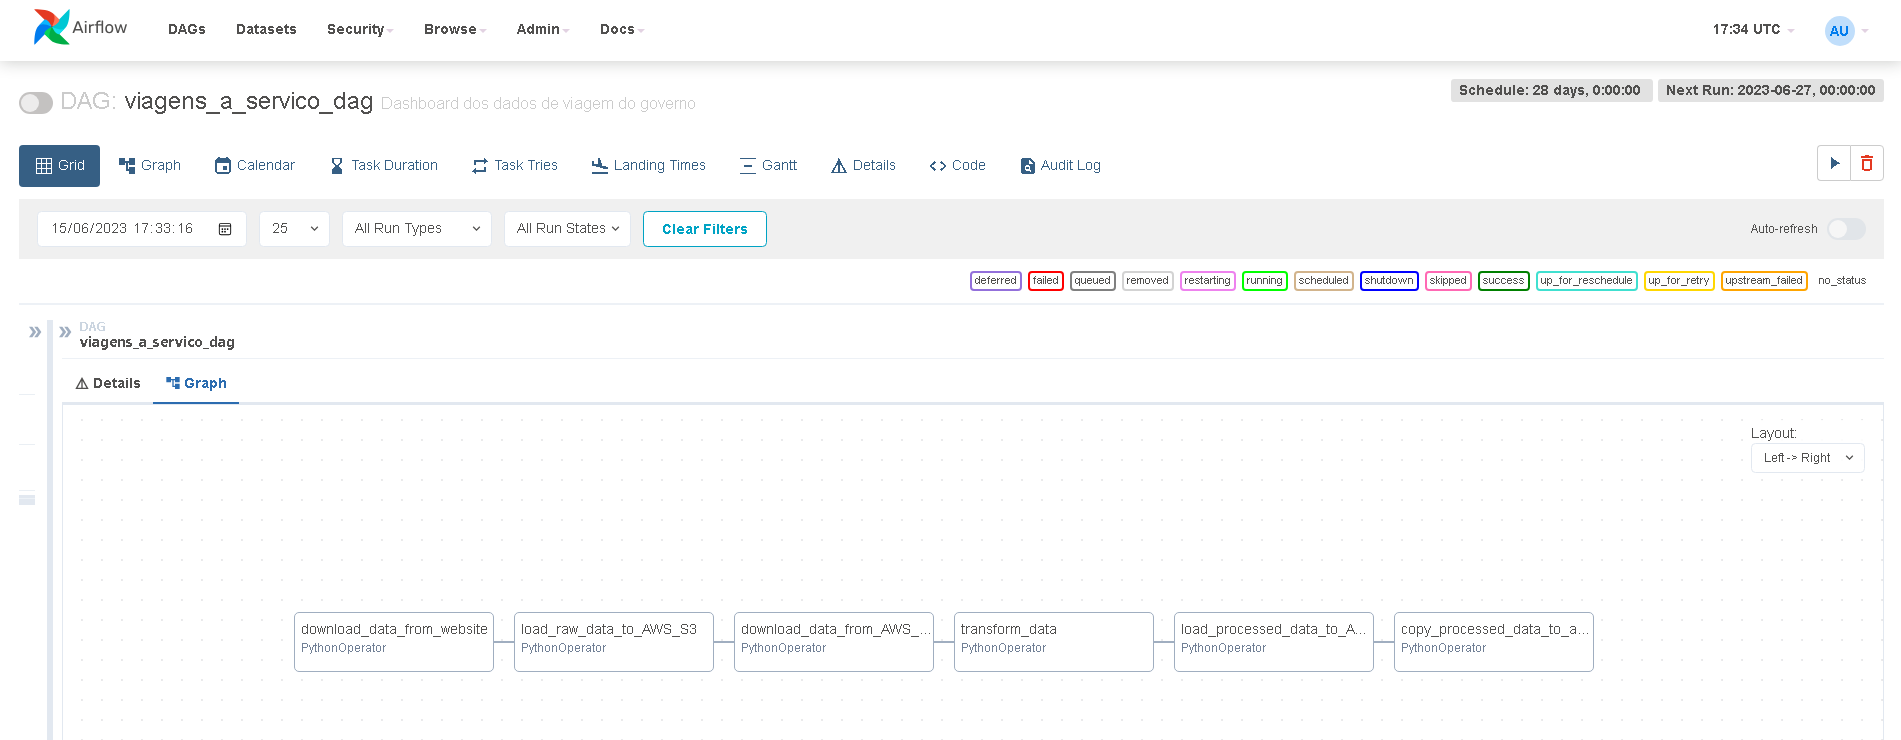
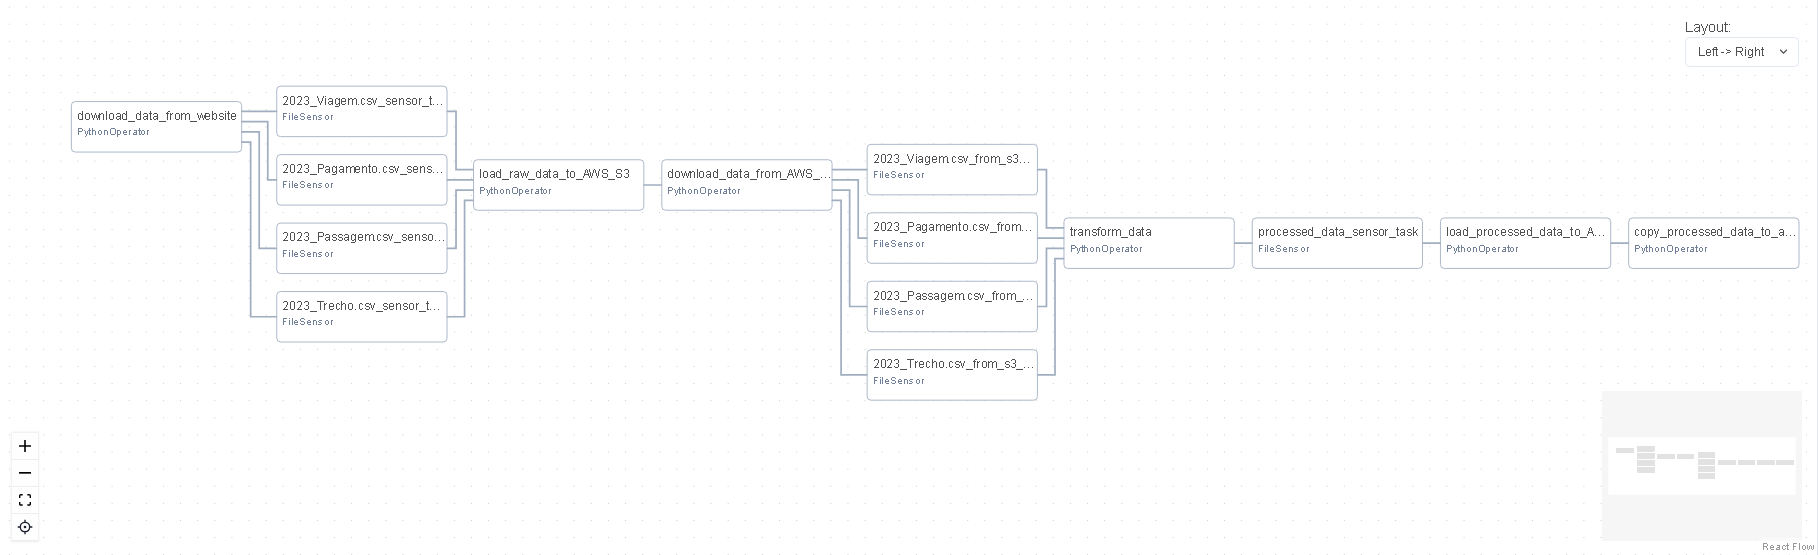
Alterações no DAG principal

diff --git a/src/viagens-dag.py b/src/viagens-dag.py
@@ -3,6 +3,7 @@ import os
 from airflow import DAG
 from airflow.operators.python import PythonOperator
 from airflow.operators.bash_operator import BashOperator
+from airflow.sensors.filesystem import FileSensor
 from extract_from_website import run_extract_from_website
 from load_raw_data_to_s3 import run_load_raw_data
 from extract_from_s3 import run_extract_from_s3
@@ -18,7 +19,7 @@ args = {
 }
 
 config_dag = DAG(
-    'create bucket S3 and Redshift Cluster',
+    'create_bucket_S3_and_Redshift_Cluster',
     default_args = args,
     description = 'Cria o bucket S3 que servirá de staging e armazenará os dados processados, bem como cria um cluster gratuito no Redshift e cria uma tabela que receberá os registros para elaboração dos dashboards'
 )
@@ -33,6 +34,9 @@ default_args = {
     'owner': 'airflow',
     'depends_on_past': True,
     'start_date': datetime.now() + timedelta(days=1),
+    'email': ['airflow@example.com'],
+    'email_on_failure': True,
+    'email_on_retry': True,
     'retries': 3,
     'retry_delay': timedelta(minutes=10)
 }
@@ -42,12 +46,22 @@ with DAG ('viagens_a_servico_dag',
           description = 'Dashboard dos dados de viagem do governo',
           schedule_interval = timedelta(weeks=4)) as data_pipeline_dag:
     
-
     task1 = PythonOperator(
         task_id = 'download_data_from_website',
         python_callable = run_extract_from_website,
         dag = data_pipeline_dag
     )
+
+    sensors1 = []
+    arquivos_esperados = ['2023_Pagamento.csv', '2023_Passagem.csv', '2023_Trecho.csv', '2023_Viagem.csv']
+    for arquivo in arquivos_esperados:
+        file_sensor = FileSensor(
+            task_id = f'{arquivo}_sensor_task',
+            filepath= f'{dag_path}/{arquivo}',
+            poke_interval=60, # Intervalo entre as verificações do arquivo em segundos
+            dag = data_pipeline_dag
+        )
+        sensors1.append(file_sensor)
 
     task2 = PythonOperator(
         task_id = 'load_raw_data_to_AWS_S3',
@@ -61,10 +75,26 @@ with DAG ('viagens_a_servico_dag',
         dag = data_pipeline_dag
     )
 
+    sensors2 = []
+    arquivos_esperados = ['2023_Pagamento.csv', '2023_Passagem.csv', '2023_Trecho.csv', '2023_Viagem.csv']
+    for arquivo in arquivos_esperados:
+        file_sensor = FileSensor(
+            task_id = f'{arquivo}_from_s3_sensor_task',
+            filepath= f'{dag_path}/raw-data/{arquivo}',
+            poke_interval=60, # Intervalo entre as verificações do arquivo em segundos
+            dag = data_pipeline_dag
+        )
+        sensors2.append(file_sensor)
+
     task4 = PythonOperator(
         task_id = 'transform_data',
         python_callable = run_transform,
         dag = data_pipeline_dag
+    )
+
+    file_sensor = FileSensor(
+        task_id = 'processed_data_sensor_task',
+        filepath = f'{dag_path}/processed-data/viagens-processed-data.csv'
     )
 
     task5 = PythonOperator(
@@ -80,4 +110,4 @@ with DAG ('viagens_a_servico_dag',
     )
 
     # Fluxo de tarefas
-    task1 >> task2 >> task3 >> task4 >> task5 >> task6
+    task1 >> sensors1 >> task2 >> task3 >> sensors2 >> task4 >> file_sensor >> task5 >> task6
